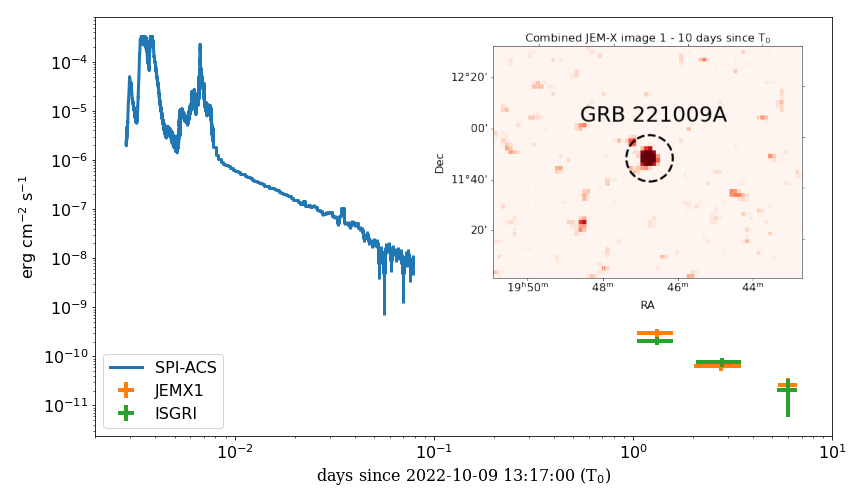
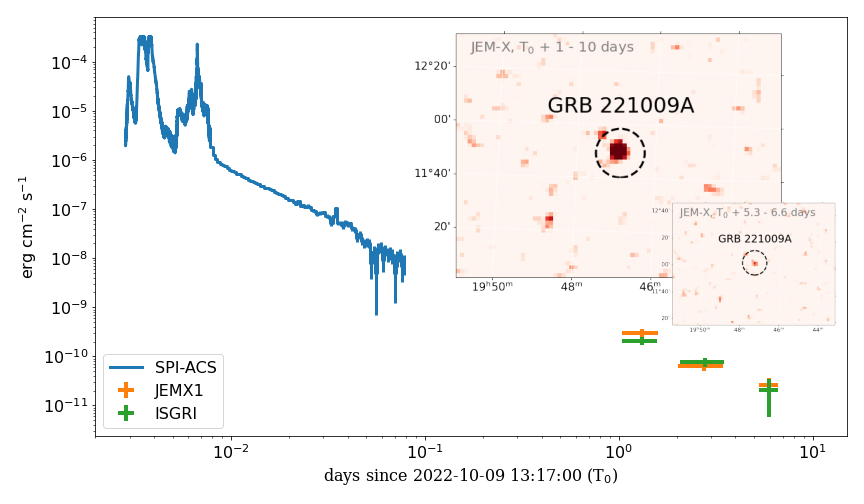
an extra smaller inset

diff --git a/README.md b/README.md
@@ -11,7 +11,7 @@ The intensity of the GRB was so high, that its afterglow was detected in INTEGRA
 
 
 
-The image shows GRB 221009A lightcurve recorded by several INTEGRAL instruments in days since 2022-10-09 13:17:00. On the left - the prompt emission phase as measured by SPI-ACS, showing the brightest part of the GRB and an extended tail lasting few hours, detected even by a non-imaging detector. On the right - three revolutions of ISGRI and JEM-X observations of the hard X-ray afterglow. For the last point, only JEM-X yields a significant detection. The inset shows combined JEM-X image for the entire observation (1 to 10 days since the event). 
+The image shows GRB 221009A lightcurve recorded by several INTEGRAL instruments in days since 2022-10-09 13:17:00. On the left - the prompt emission phase as measured by SPI-ACS, showing the brightest part of the GRB and an extended tail lasting few hours, detected even by a non-imaging detector. On the right - three revolutions of ISGRI and JEM-X observations of the hard X-ray afterglow. For the last point, only JEM-X yields a significant detection. Larger inset shows combined JEM-X image for the entire observation (1 to 10 days since the event). Smaller inset shows the last observation with significant detection (5.3 to 6.6 days since T0).
 
 
 
